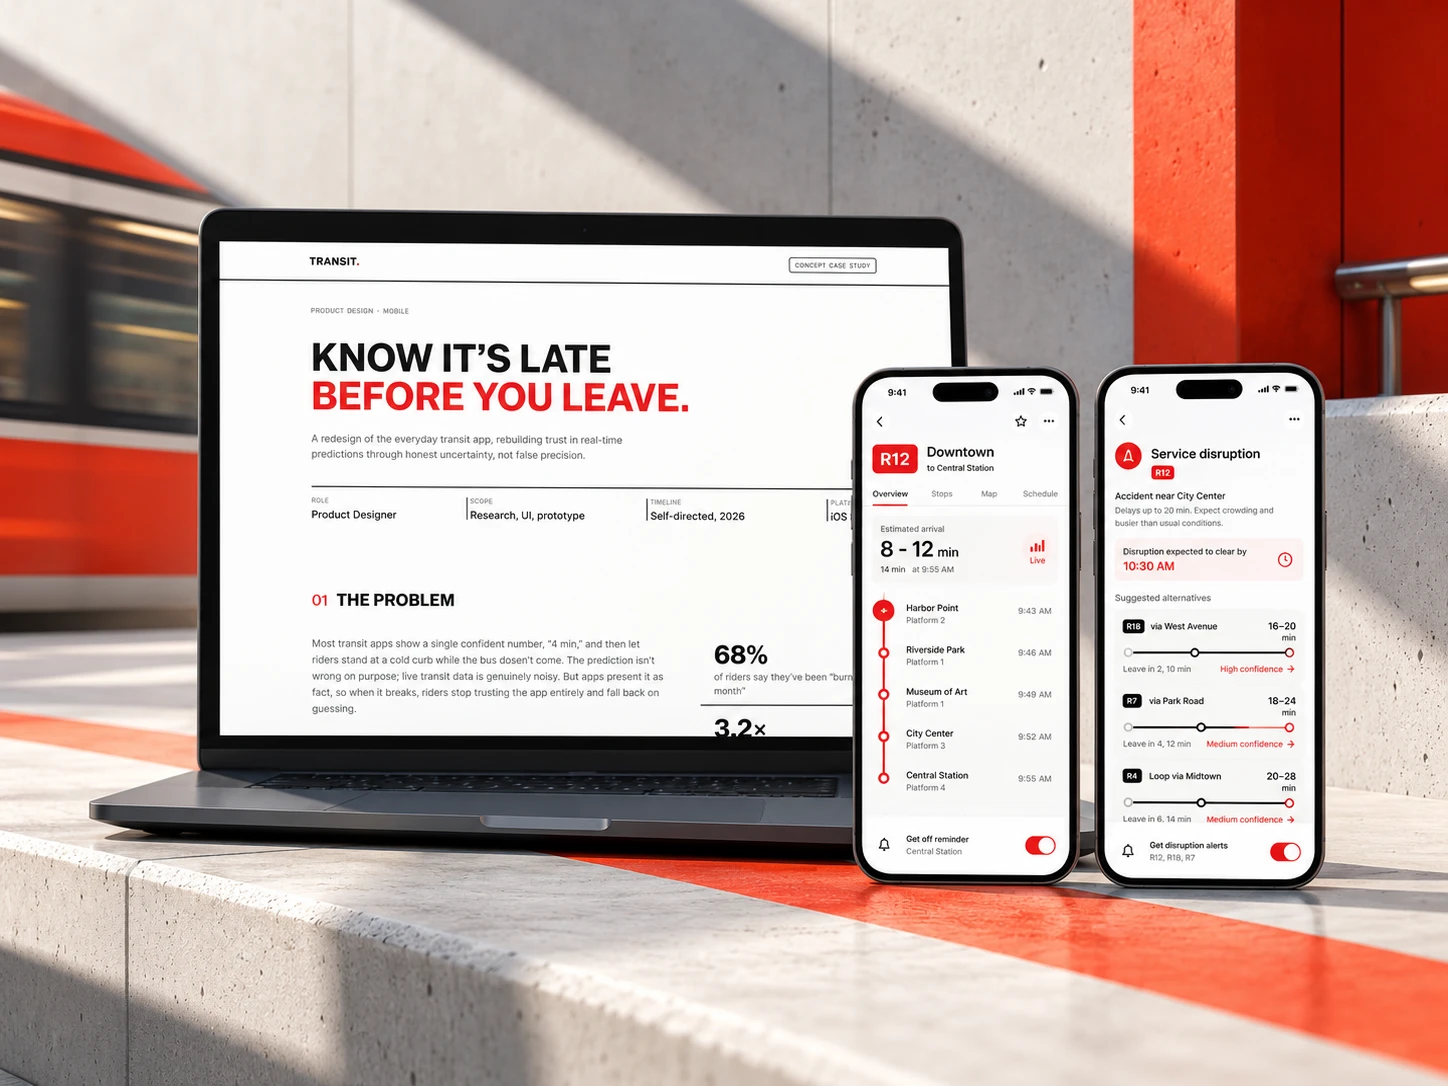
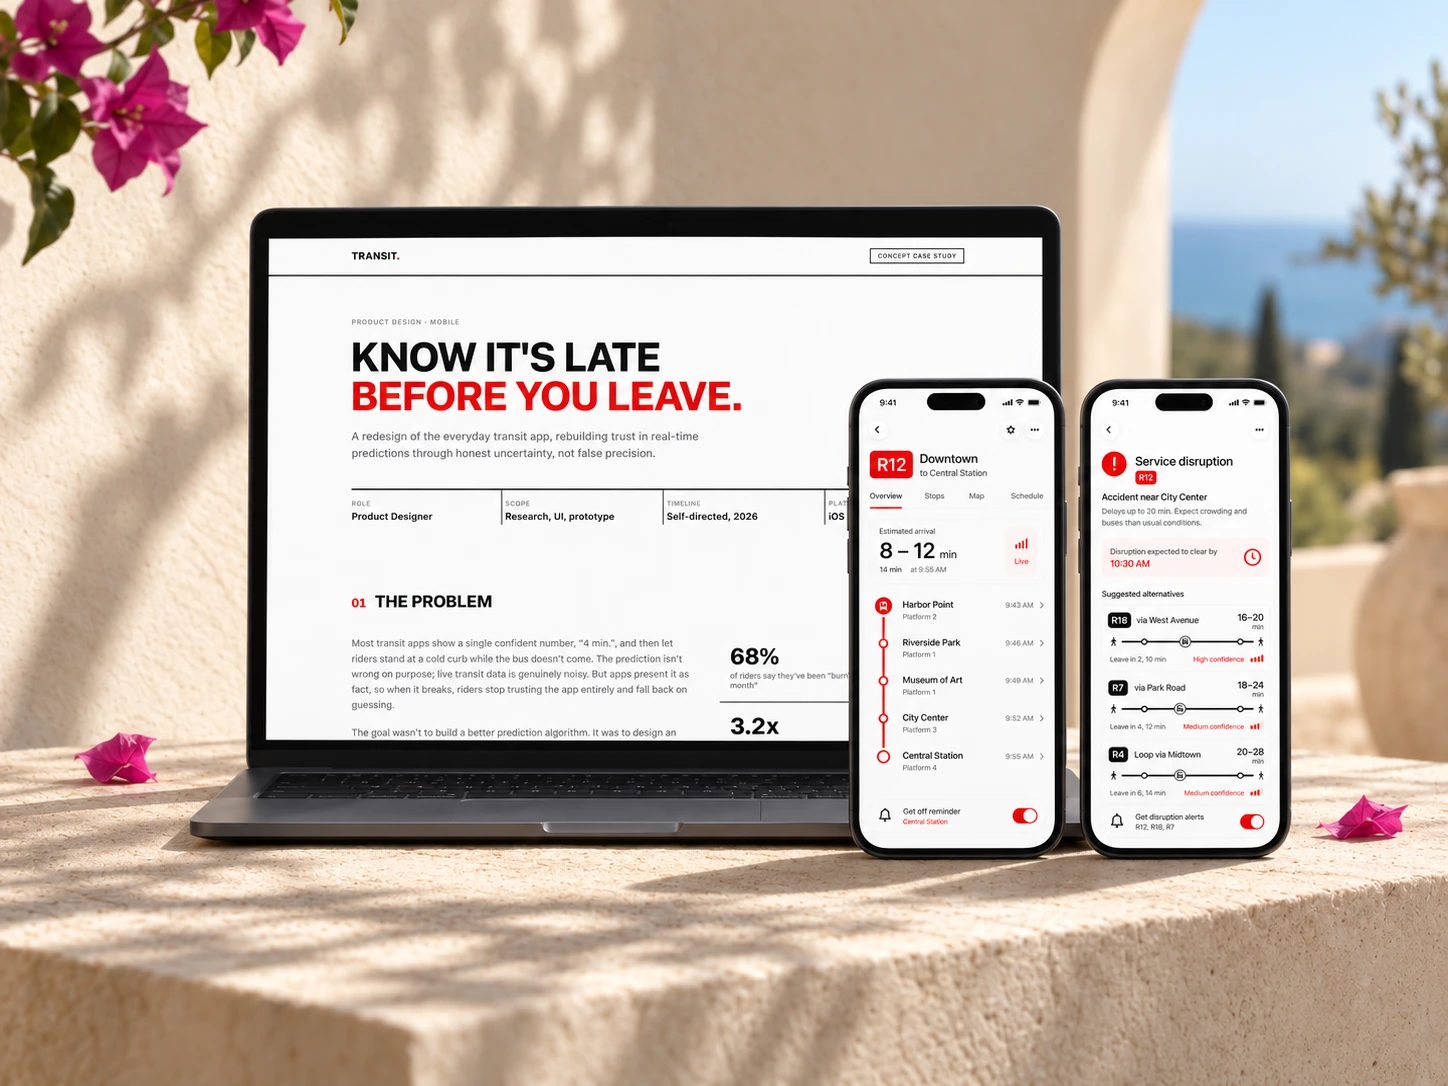
Posters: one matching photographic set for the projects
Replace the scenes with the new set shot on one limestone plinth in
Mediterranean daylight with a small bougainvillea cameo: Flash Pharmacy,
Flash Longevity, Huddle, Transit, Wavelength and Fang & Rung updated;
Safes Family, Roobinium and Connected Health added (they previously fell
back to the old grey mockups). Drop the unused wavelength-sunset and
makeup-shop files.

Bloom and GreenGenie keep their earlier scenes until they are re-shot.

Re-verified at 1440x900 and 390px: layout, ~70s loop, pause on hover and
focus, reduced motion, no errors, no overflow.

diff --git a/lib/posters.ts b/lib/posters.ts
@@ -1,11 +1,15 @@
 /**
- * Project posters: the photographed product scenes (4:3, in
- * /images/work/scenes). Projects without a scene yet fall back to their
+ * Project posters: photographed product scenes (4:3, in /images/work/scenes),
+ * all shot on one set (limestone plinth, Mediterranean daylight, a small
+ * bougainvillea cameo). Projects without a scene yet fall back to their
  * existing hero mockup, unchanged.
  */
 const SCENES: Record<string, string> = {
   "flash-pharmacy": "/images/work/scenes/flash-pharmacy.webp",
   "flash-longevity": "/images/work/scenes/flash-longevity.webp",
+  "connected-health-pitch": "/images/work/scenes/connected-health.webp",
+  "safes-family": "/images/work/scenes/safes-family.webp",
+  roobinium: "/images/work/scenes/roobinium.webp",
   huddle: "/images/work/scenes/huddle.webp",
   transit: "/images/work/scenes/transit.webp",
   bloom: "/images/work/scenes/bloom.webp",
